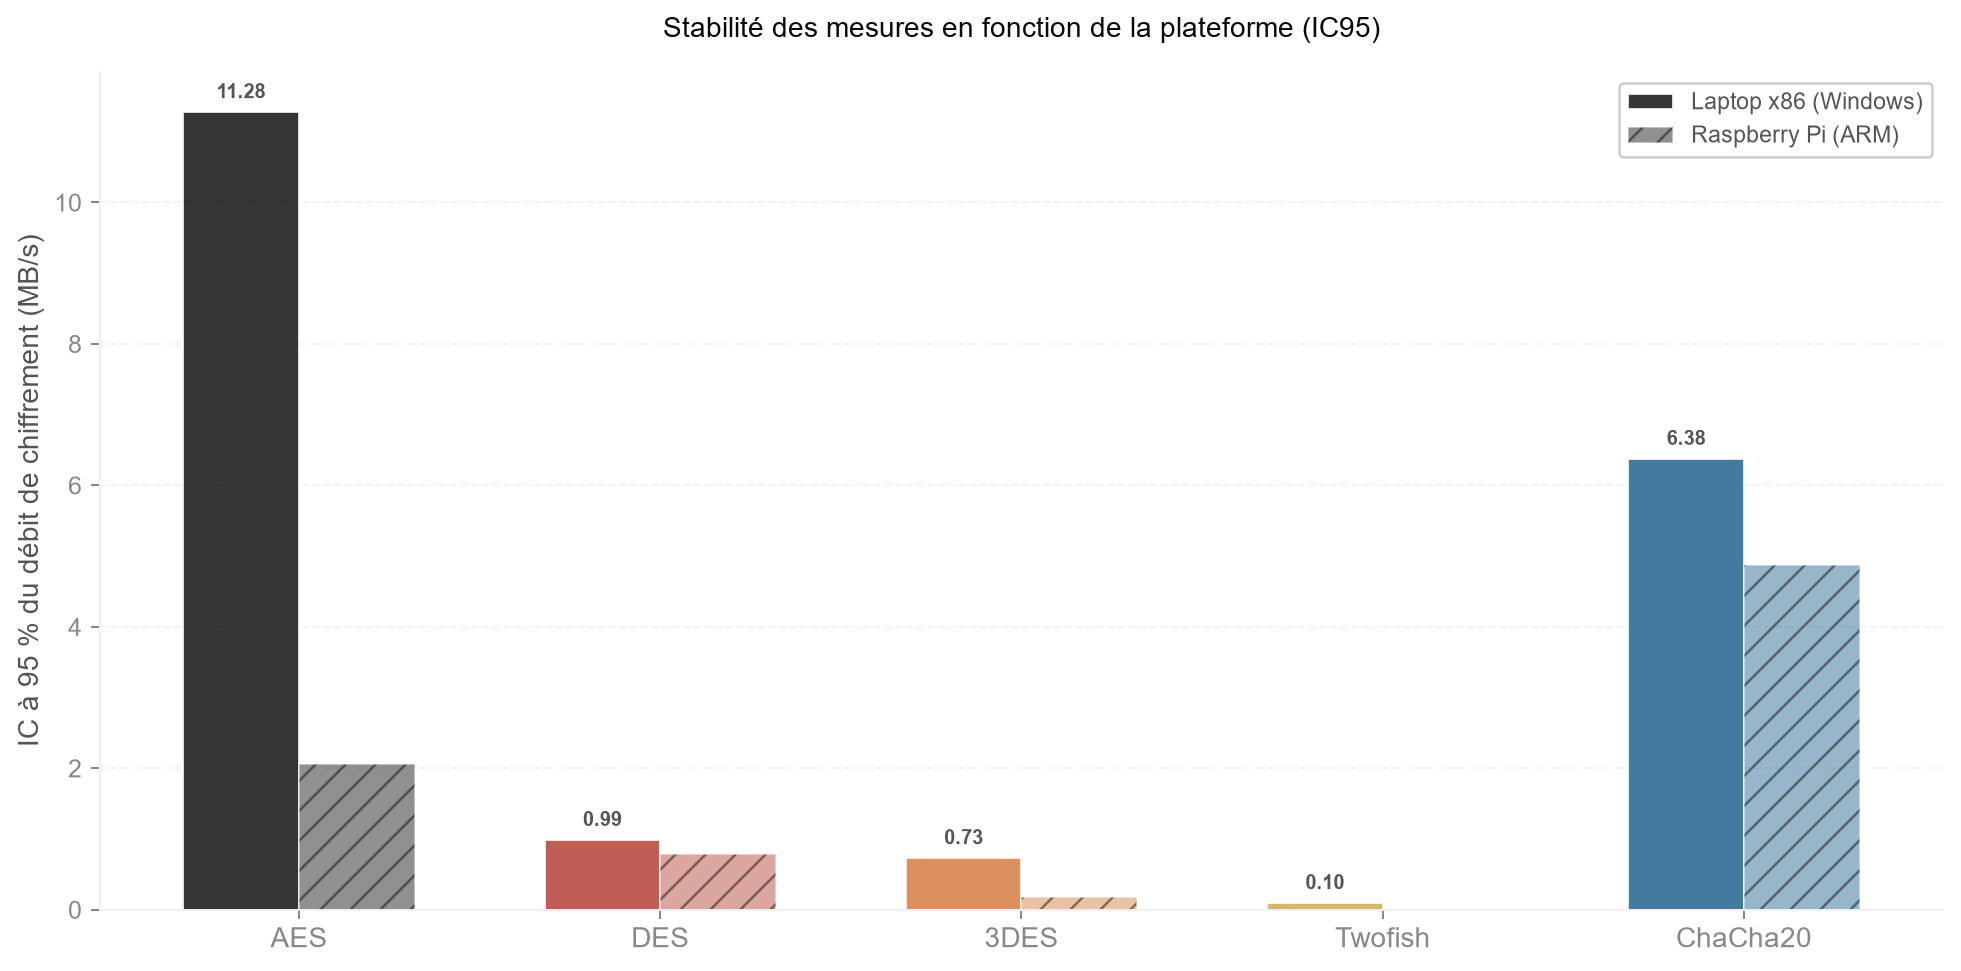
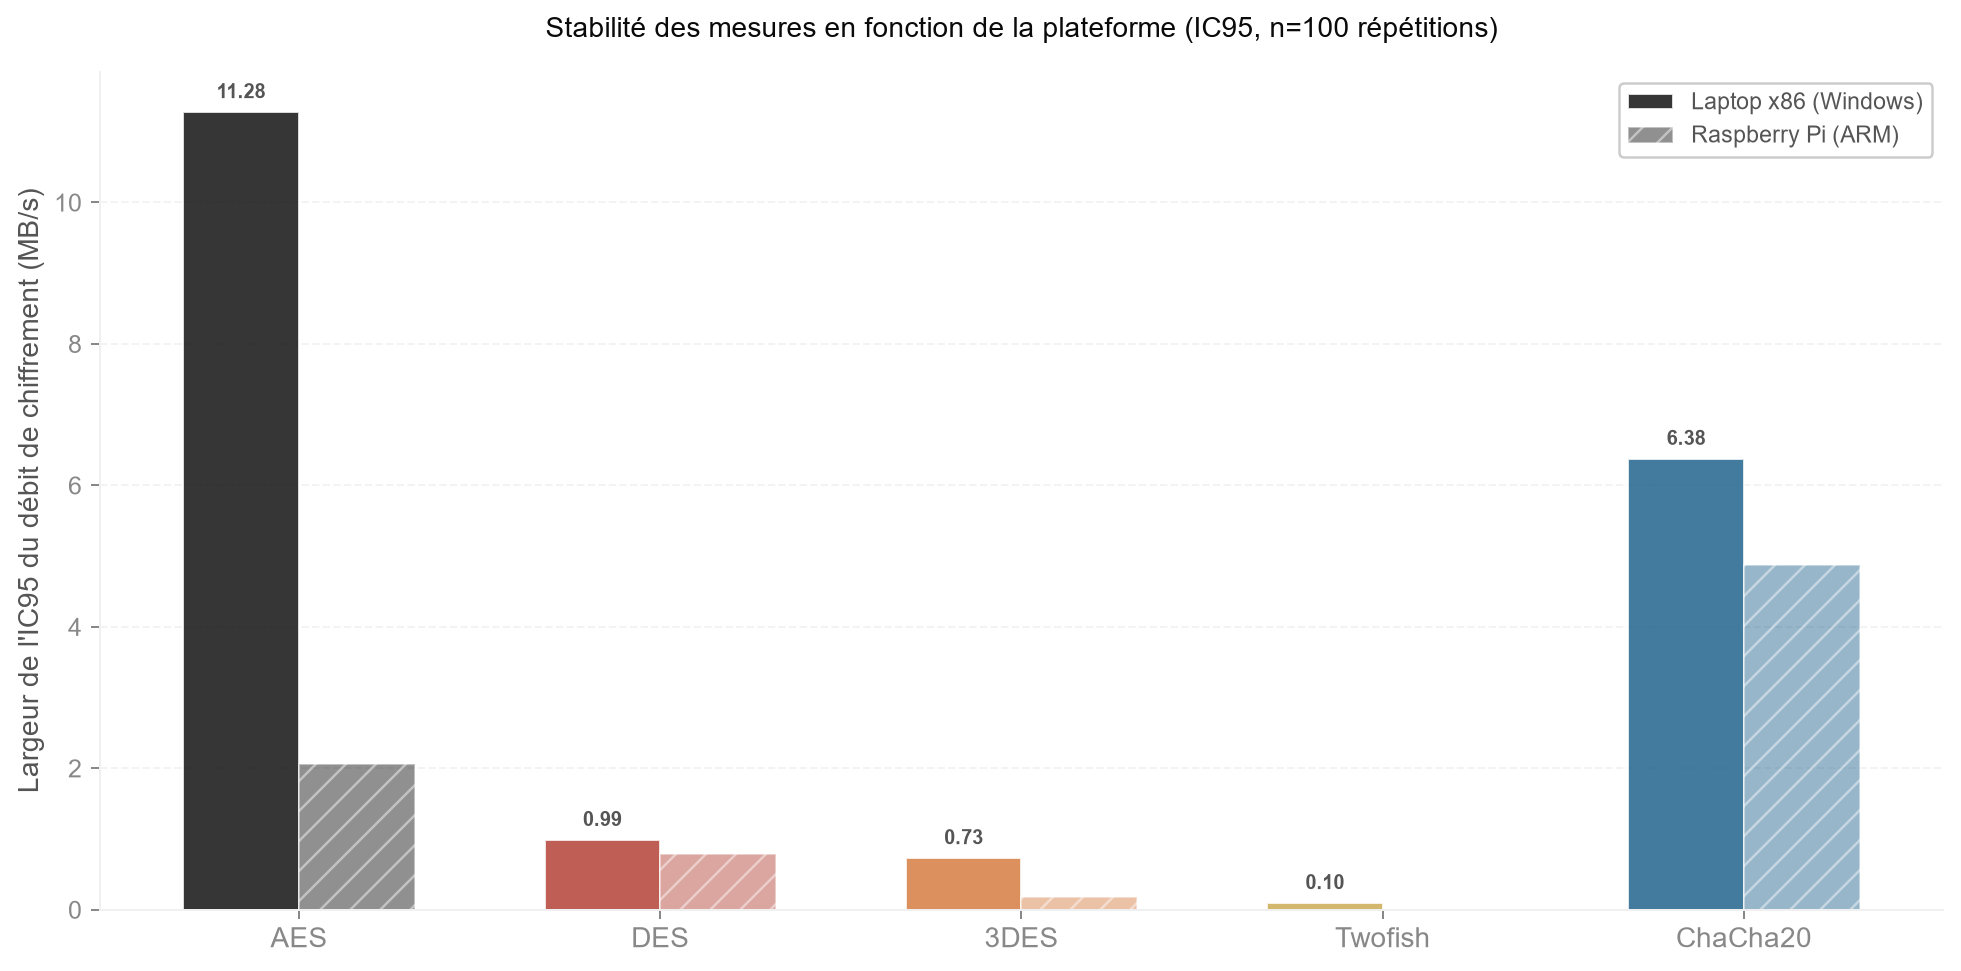
commit

diff --git a/crypto-experiments/scripts/chart_pipeline/build_platform_comparison.py b/crypto-experiments/scripts/chart_pipeline/build_platform_comparison.py
@@ -353,9 +353,9 @@ def cmp6_ci95_stability():
 
     ax.set_xticks(x)
     ax.set_xticklabels(algo_order, fontsize=11)
-    ax.set_ylabel("IC à 95 % du débit de chiffrement (MB/s)", fontsize=11)
+    ax.set_ylabel("Largeur de l'IC95 du débit de chiffrement (MB/s)", fontsize=11)
     ax.set_title(
-        "Stabilité des mesures en fonction de la plateforme (IC95)",
+        "Stabilité des mesures en fonction de la plateforme (IC95, n=100 répétitions)",
         fontsize=11,
     )
     ax.legend(fontsize=9)
